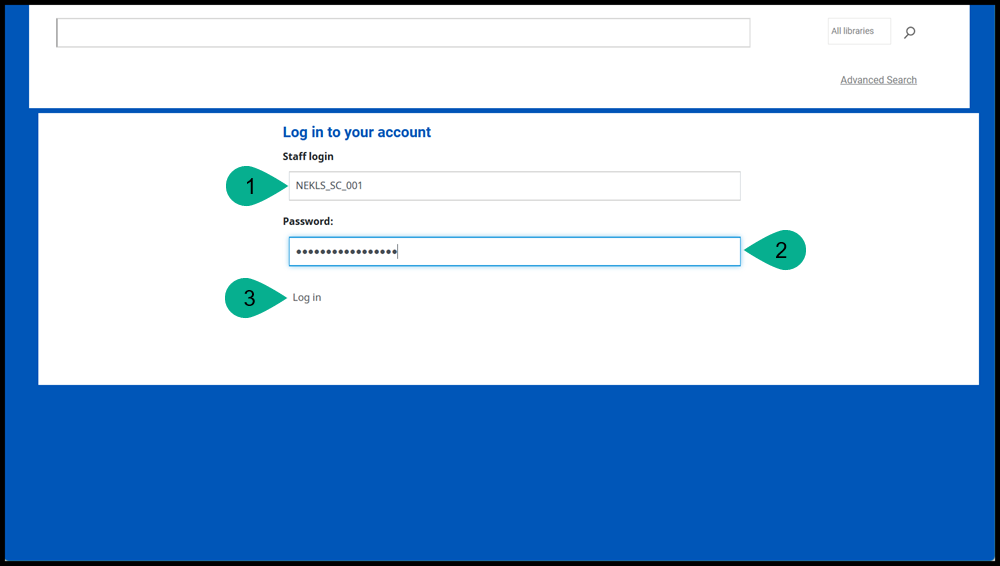
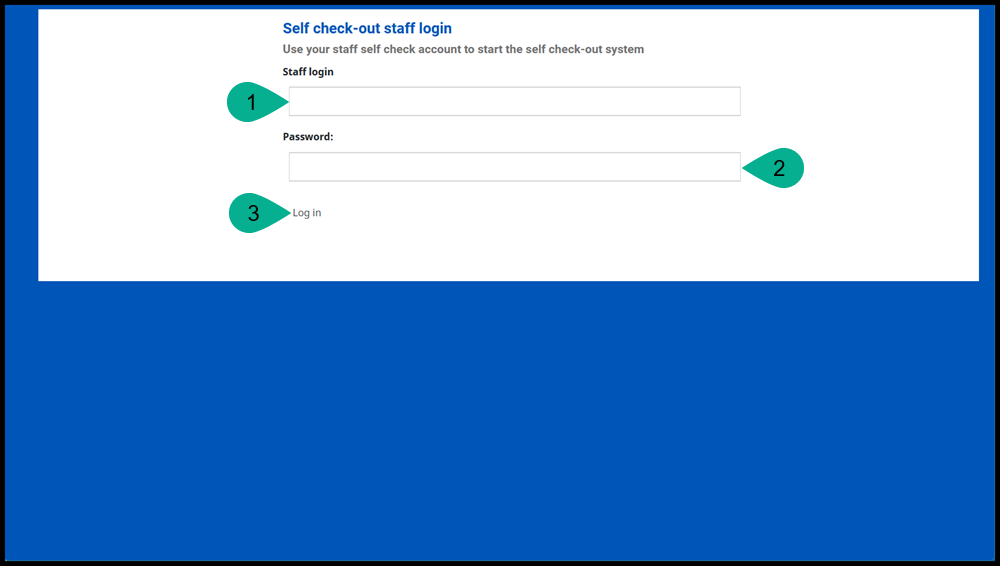
update self-check photos and includes file

Changed region(s): [[0.031, 0.0, 0.992, 0.6908], [0.837, 0.1201, 0.93, 0.1502]]

diff --git a/source/include.rst b/source/include.rst
@@ -772,6 +772,34 @@
 
 .. pages/selfcheck
 
+.. |self_check_in-0010| image:: /images/pages/selfcheck/self_check_in-0010.png
+    :scale: 65% 
+    :alt: 
+
+.. |self_check_in-0020| image:: /images/pages/selfcheck/self_check_in-0020.png
+    :scale: 65% 
+    :alt: 
+
+.. |self_check_in-0030| image:: /images/pages/selfcheck/self_check_in-0030.png
+    :scale: 65% 
+    :alt: 
+
+.. |self_check_in-0040| image:: /images/pages/selfcheck/self_check_in-0040.png
+    :scale: 65% 
+    :alt: 
+
+.. |self_check_in-0050| image:: /images/pages/selfcheck/self_check_in-0050.png
+    :scale: 65% 
+    :alt: 
+
+.. |self_check_in-0060| image:: /images/pages/selfcheck/self_check_in-0060.png
+    :scale: 65% 
+    :alt: 
+
+.. |self_check_out-0010| image:: /images/pages/selfcheck/self_check_out-0010.png
+    :scale: 65% 
+    :alt: Staff login screen example
+
 .. |self_check_out-0010| image:: /images/pages/selfcheck/self_check_out-0010.png
     :scale: 65% 
     :alt: Staff login screen example
